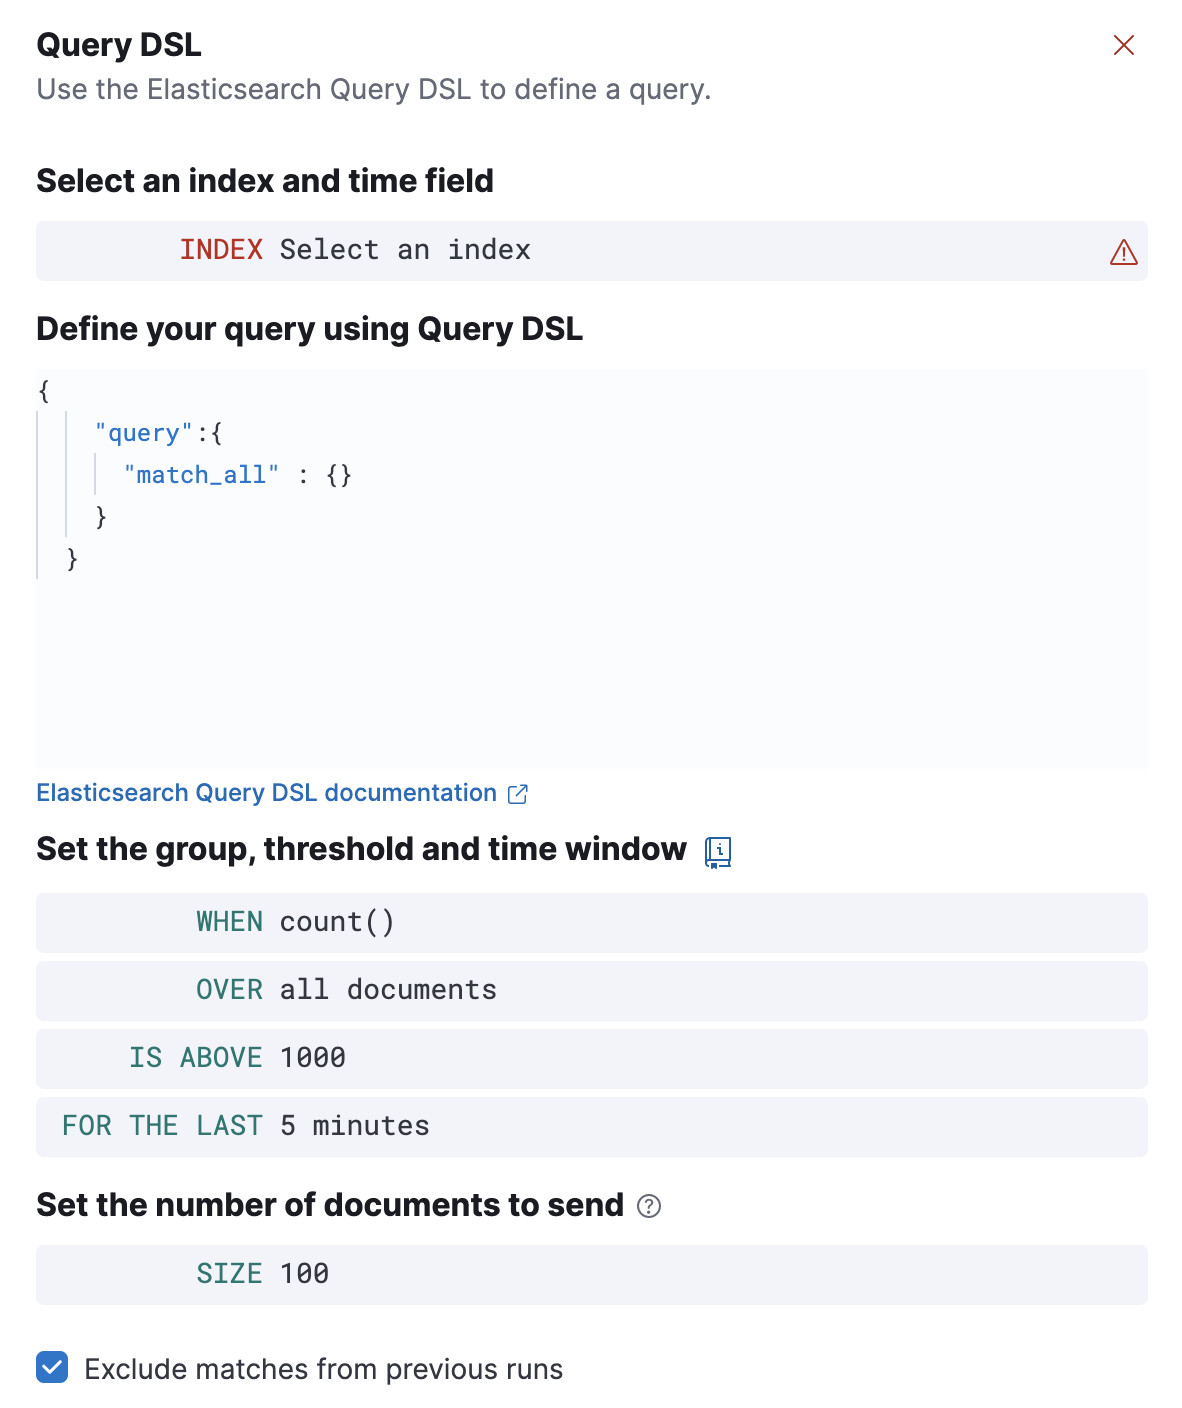
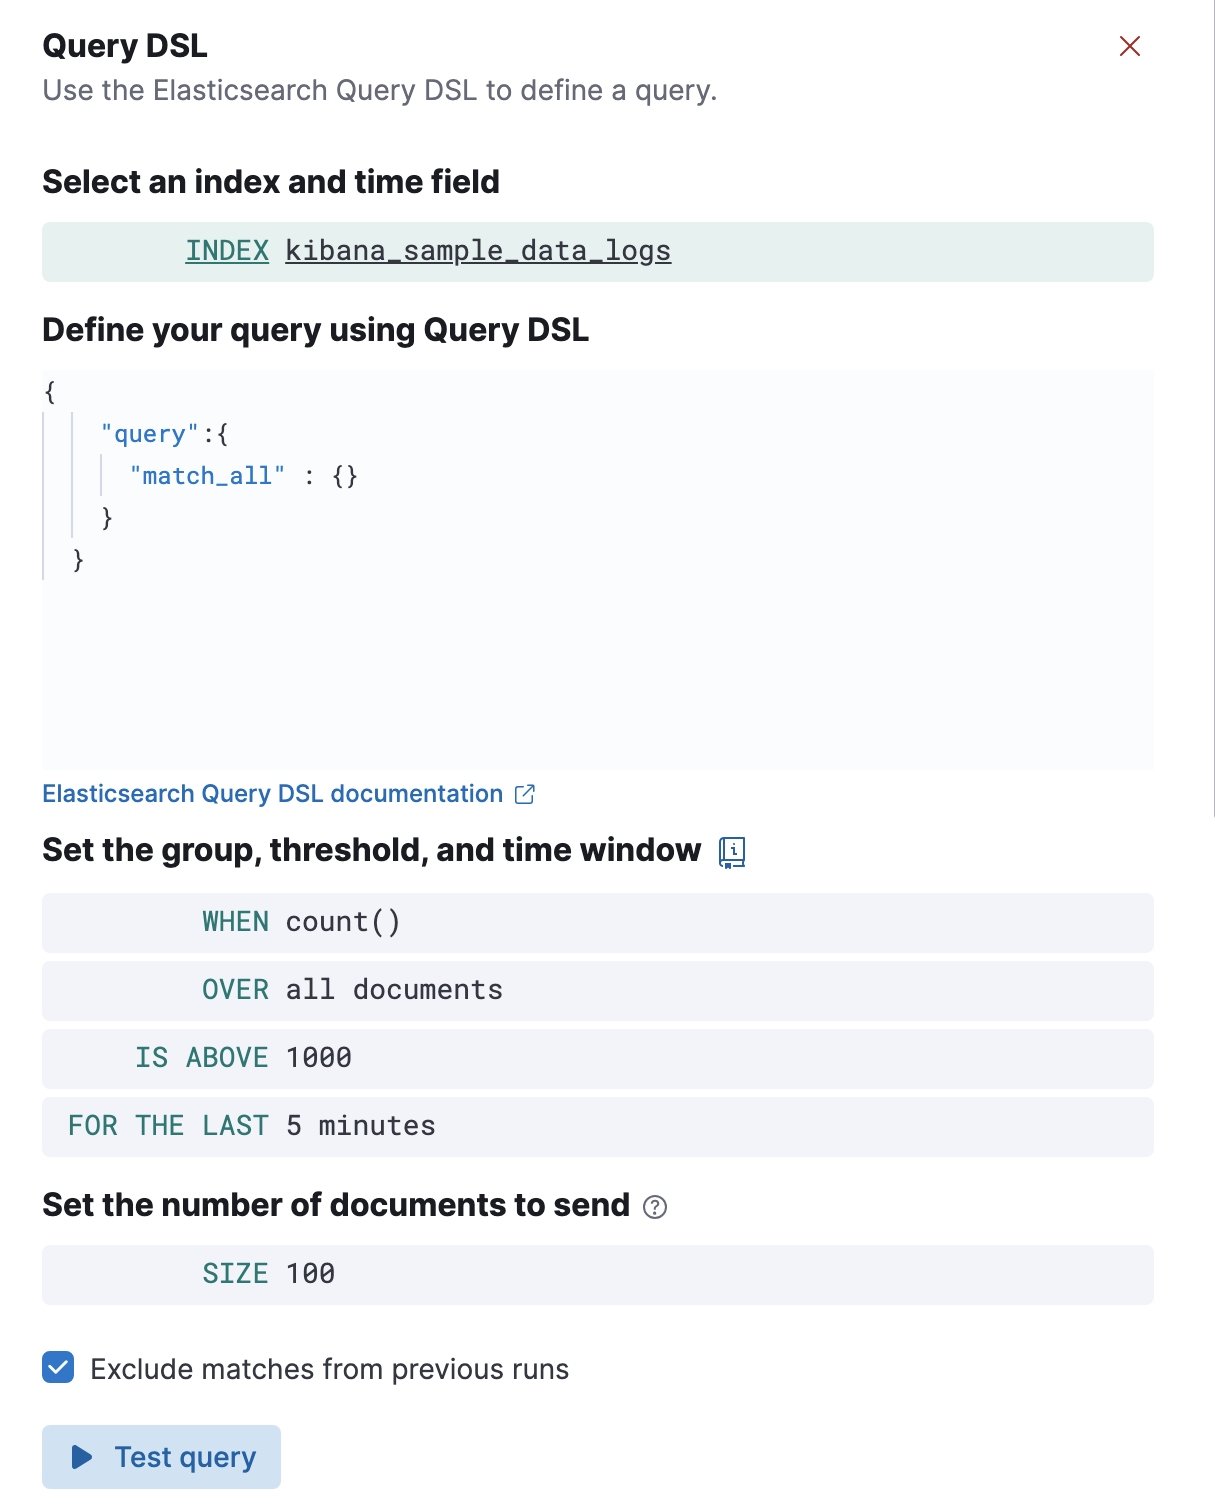
[DOCS] Automate Elasticsearch query rule screenshots (#164127)

diff --git a/x-pack/test/screenshot_creation/apps/response_ops_docs/stack_alerting/es_query_rule.ts b/x-pack/test/screenshot_creation/apps/response_ops_docs/stack_alerting/es_query_rule.ts
@@ -1,0 +1,112 @@
+/*
+ * Copyright Elasticsearch B.V. and/or licensed to Elasticsearch B.V. under one
+ * or more contributor license agreements. Licensed under the Elastic License
+ * 2.0; you may not use this file except in compliance with the Elastic License
+ * 2.0.
+ */
+
+import { FtrProviderContext } from '../../../ftr_provider_context';
+
+export default function ({ getService, getPageObjects }: FtrProviderContext) {
+  const browser = getService('browser');
+  const commonScreenshots = getService('commonScreenshots');
+  const find = getService('find');
+  const rules = getService('rules');
+  const testSubjects = getService('testSubjects');
+  const pageObjects = getPageObjects(['common', 'header']);
+  const screenshotDirectories = ['response_ops_docs', 'stack_alerting'];
+  const ruleName = 'test query rule';
+
+  const validQueryJson = JSON.stringify({
+    query: {
+      bool: {
+        filter: [
+          {
+            term: {
+              'host.keyword': 'www.elastic.co',
+            },
+          },
+        ],
+      },
+    },
+  });
+  const invalidQueryJson = JSON.stringify({
+    query: {
+      bool: {
+        filter: [
+          {
+            error_clause: {
+              'host.keyword': 'www.elastic.co',
+            },
+          },
+        ],
+      },
+    },
+  });
+
+  describe('elasticsearch query rule', function () {
+    it('create rule screenshot', async () => {
+      await pageObjects.common.navigateToApp('triggersActions');
+      await pageObjects.header.waitUntilLoadingHasFinished();
+      await rules.common.clickCreateAlertButton();
+      await testSubjects.scrollIntoView('ruleNameInput');
+      await testSubjects.setValue('ruleNameInput', ruleName);
+      await testSubjects.click(`.es-query-SelectOption`);
+      await testSubjects.click('queryFormType_esQuery');
+      const indexSelector = await testSubjects.find('selectIndexExpression');
+      await indexSelector.click();
+      const indexComboBox = await find.byCssSelector('#indexSelectSearchBox');
+      await indexComboBox.type('kibana_sample_data_logs ');
+      const filterSelectItem = await find.byCssSelector(`.euiFilterSelectItem`);
+      await filterSelectItem.click();
+      await testSubjects.click('thresholdAlertTimeFieldSelect');
+      await testSubjects.setValue('thresholdAlertTimeFieldSelect', '@timestamp');
+      await testSubjects.click('closePopover');
+      await commonScreenshots.takeScreenshot(
+        'rule-types-es-query-conditions',
+        screenshotDirectories,
+        1400,
+        1500
+      );
+      // Test a valid query
+      await testSubjects.setValue('queryJsonEditor', '', {
+        clearWithKeyboard: true,
+      });
+      const queryJsonEditor = await testSubjects.find('queryJsonEditor');
+      await queryJsonEditor.clearValue();
+      await testSubjects.setValue('queryJsonEditor', validQueryJson, {
+        clearWithKeyboard: true,
+      });
+      await testSubjects.click('forLastExpression');
+      await testSubjects.setValue('timeWindowSizeNumber', '1');
+      await testSubjects.setValue('timeWindowUnitSelect', 'day');
+      await browser.pressKeys(browser.keys.ESCAPE);
+      await testSubjects.click('testQuery');
+      await testSubjects.scrollIntoView('ruleNameInput');
+      await commonScreenshots.takeScreenshot(
+        'rule-types-es-query-valid',
+        screenshotDirectories,
+        1400,
+        1500
+      );
+      // Test an invalid query
+      await testSubjects.setValue('queryJsonEditor', '', {
+        clearWithKeyboard: true,
+      });
+      await queryJsonEditor.clearValue();
+      await testSubjects.setValue('queryJsonEditor', invalidQueryJson, {
+        clearWithKeyboard: true,
+      });
+      await testSubjects.click('testQuery');
+      await testSubjects.scrollIntoView('ruleNameInput');
+      await pageObjects.header.waitUntilLoadingHasFinished();
+      await commonScreenshots.takeScreenshot(
+        'rule-types-es-query-invalid',
+        screenshotDirectories,
+        1400,
+        1500
+      );
+      await testSubjects.click('cancelSaveRuleButton');
+    });
+  });
+}

diff --git a/x-pack/test/screenshot_creation/apps/response_ops_docs/stack_alerting/index.ts b/x-pack/test/screenshot_creation/apps/response_ops_docs/stack_alerting/index.ts
@@ -100,8 +100,9 @@ export default function ({ loadTestFile, getService }: FtrProviderContext) {
       await actions.api.deleteAllConnectors();
     });
 
-    loadTestFile(require.resolve('./list_view'));
+    loadTestFile(require.resolve('./es_query_rule'));
     loadTestFile(require.resolve('./index_threshold_rule'));
+    loadTestFile(require.resolve('./list_view'));
     loadTestFile(require.resolve('./metrics_threshold_rule'));
     loadTestFile(require.resolve('./tracking_containment_rule'));
   });
